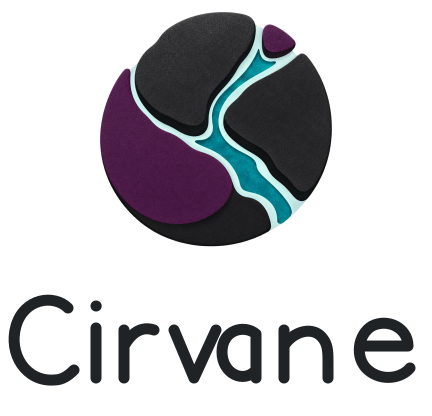
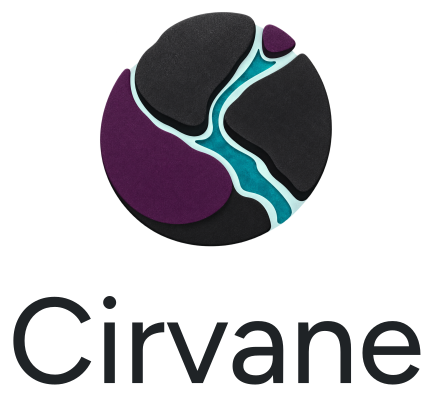
Replace Cirvane wordmark with Figtree

Changed region(s): [[0.0, 0.6875, 0.9931, 0.9375]]

diff --git a/scripts/generate_brand_manifest.py b/scripts/generate_brand_manifest.py
@@ -95,6 +95,9 @@ def main() -> int:
         is_dimensional_source = relative.name in {
             "cirvane-symbol-dimensional.png", "cirvane-symbol-mono-dimensional.png"
         }
+        is_figtree_wordmark = relative.name in {
+            "cirvane-wordmark.svg", "cirvane-wordmark-reversed.svg"
+        }
         entry = {
             "path": str(relative),
             "sha256": digest(path),
@@ -106,6 +109,8 @@ def main() -> int:
             "provenance": (
                 "owner-approved AI-assisted raster master and deterministic derivative"
                 if is_dimensional_source else
+                "Figtree weight 450 outlines under the SIL Open Font License 1.1"
+                if is_figtree_wordmark else
                 "deterministic librsvg export" if is_export else
                 "manually authored deterministic source"
             ),

diff --git a/assets/brand/LICENSES/README.md b/assets/brand/LICENSES/README.md
@@ -2,6 +2,6 @@
 
 The Cirvane Recovery Scar dimensional symbol is an AI-assisted original project asset generated and selected under the owner's direction in 2026. The monochrome derivative, custom path-based wordmark, lockups, icons, templates and design tokens were produced for this repository from that approved identity. No third-party icon, embedded font or remotely linked resource is included. Repository distribution is under the MIT licence unless a future asset manifest records another licence; professional review of AI-assisted asset rights remains a public-opening gate.
 
-The canonical wordmark is path-based and therefore has no font dependency. Product interfaces use platform system-font stacks; the repository redistributes no font files. Each operating system vendor's licence governs its locally installed system fonts.
[1 lines of base64/hex data omitted]
 
 The canonical dimensional source is the approved transparent extraction of the selected Recovery Scar concept. Its provenance and digest are recorded in the brand manifest. Earlier concept boards and rejected manual reconstructions remain design evidence only and are not shipped as canonical assets.

diff --git a/docs/BRAND_IDENTITY.md b/docs/BRAND_IDENTITY.md
@@ -82,7 +82,7 @@ Semantic success, warning, failure, information and unknown colours are separate
 
 ## Typography
 
-The canonical wordmark is custom path geometry. It must never be recreated with a font. Product and documentation typography use the platform system sans stack; code, shell and evidence use the platform system monospace stack. No font file is redistributed.
+The canonical wordmark uses optically spaced Figtree Medium outlines at weight 450. Figtree is distributed under the SIL Open Font License 1.1; the canonical SVG contains paths and has no runtime font dependency. Do not reset the wordmark as live text or substitute another weight. Product and documentation typography use the platform system sans stack; code, shell and evidence use the platform system monospace stack. No font binary is redistributed.
 
 - Display: 700 weight, compact leading, sentence case.
 - Interface: 400 or 550 weight; use 700 only for short hierarchy labels.
